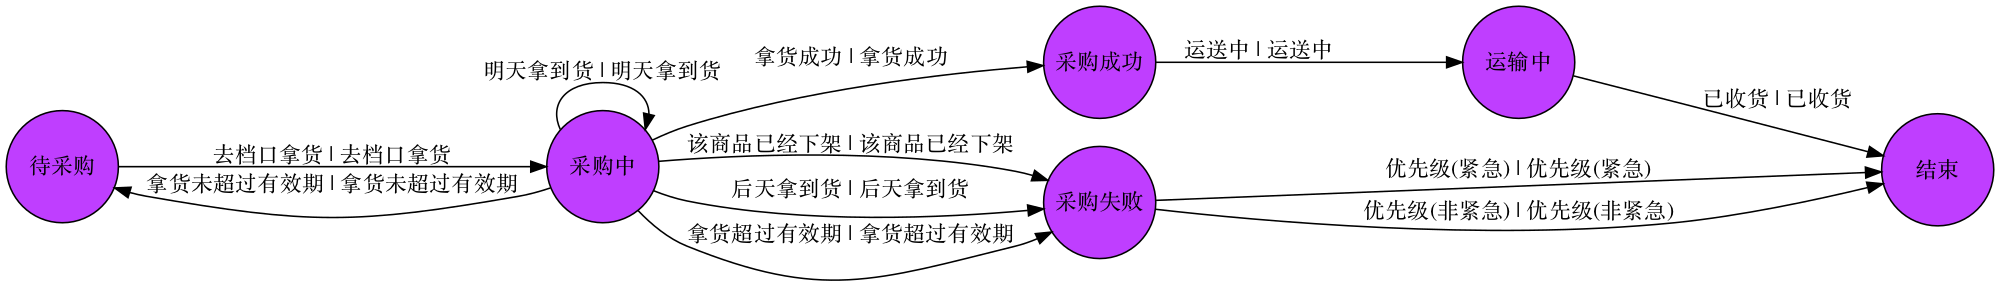
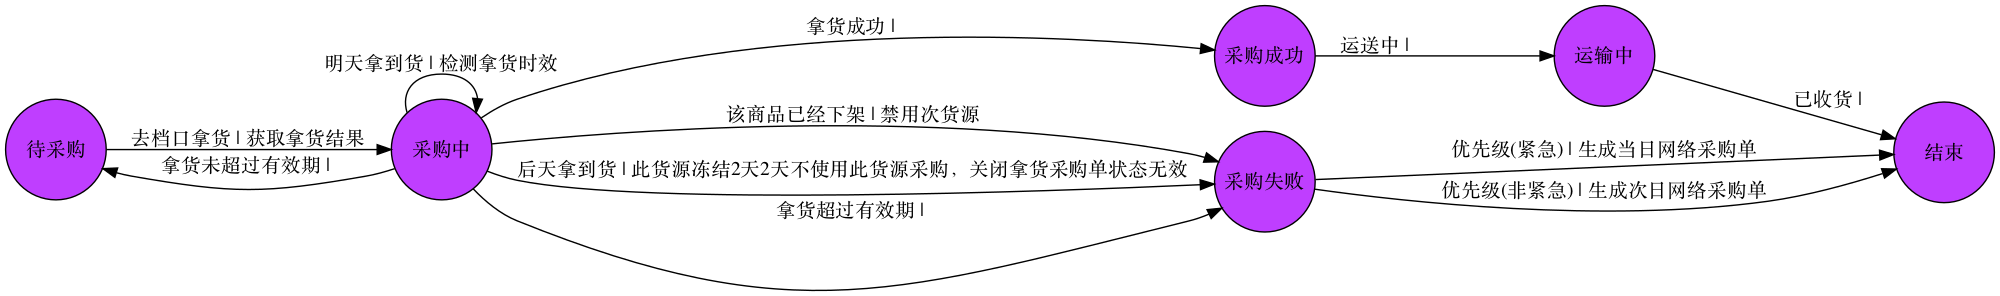
状态机优化

diff --git a/purchase_at_the_stall_test.go b/purchase_at_the_stall_test.go
@@ -32,7 +32,43 @@ func (p *StallPurchaseOrderEventProcessor) OnExit(fromState State, args []interf
 	log.Printf("采购单 %d 从状态 %v 改变", t.ID, fromState)
 }
 
-func (p *StallPurchaseOrderEventProcessor) Action(action Action, fromState State, toState State, args []interface{}) error {
+func (p *StallPurchaseOrderEventProcessor) PreAction(action Action, fromState State, toState State, args []interface{}) error {
+	ts := args[0].(*StallPurchaseOrder)
+	ts.EventCount++
+
+	switch action.Name {
+
+	case "获取拿货结果":
+		{
+			ts.GetGoodsResults = int64(rand.Intn(4))
+		}
+	case "禁用此货源":
+		{
+			fmt.Println("禁用此货源")
+		}
+
+	case "生成络采购单", "生成次日网络采购单":
+		//{
+		//	fmt.Println("生成网络采购单")
+		//}
+
+	case "此货源冻结2天2天不使用此货源采购，关闭拿货采购单状态无效":
+
+		{
+			fmt.Println("此货源冻结2天2天不使用此货源采购，关闭拿货采购单状态无效")
+		}
+	case "检测拿货时效":
+		{
+			ts.effective = rand.Intn(2)
+		}
+	default: //其它action
+
+	}
+
+	return nil
+}
+
+func (p *StallPurchaseOrderEventProcessor) NextAction(action Action, fromState State, toState State, args []interface{}) error {
 	ts := args[0].(*StallPurchaseOrder)
 	ts.EventCount++
 
@@ -134,7 +170,6 @@ func TestStallOrder(t *testing.T) {
 	if err != nil {
 		fmt.Printf("trigger err: %v", err)
 	}
-
 	switch ts.GetGoodsResults {
 	case 0:
 
@@ -191,17 +226,17 @@ func initStallOrderFSM() *StateMachine {
 	delegate := &DefaultDelegate{P: &StallPurchaseOrderEventProcessor{}}
 
 	transitions := []Transition{
-		{From: PendingPuchase, Event: Go2Stall, To: Purchasing, Action: GetTheResults},
-		{From: Purchasing, Event: GotTheGoods, To: PurchaseSuccessful, Action: NoAction},
-		{From: PurchaseSuccessful, Event: SendToWarehouse, To: BeingTransported, Action: NoAction},
-		{From: BeingTransported, Event: Received, To: PurchaseEnd, Action: NoAction},
-		{From: Purchasing, Event: HasBeenRemoved, To: Purchasefailed, Action: DisableSecondarySources},
-		{From: Purchasefailed, Event: Urgent, To: PurchaseEnd, Action: GenerateTodayOnlineOrder},
-		{From: Purchasefailed, Event: NotUrgent, To: PurchaseEnd, Action: GenerateTomorrowOnlineOrder},
-		{From: Purchasing, Event: TwoDaysLater, To: Purchasefailed, Action: SourceFreeze2Days},
-		{From: Purchasing, Event: OneDaysLater, To: Purchasing, Action: TestingTime},
-		{From: Purchasing, Event: Overdue, To: Purchasefailed, Action: NoAction},
-		{From: Purchasing, Event: NotExpired, To: PendingPuchase, Action: NoAction},
+		{From: PendingPuchase, Event: Go2Stall, To: Purchasing, PreAction: GetTheResults},
+		{From: Purchasing, Event: GotTheGoods, To: PurchaseSuccessful, PreAction: NoAction},
+		{From: PurchaseSuccessful, Event: SendToWarehouse, To: BeingTransported, PreAction: NoAction},
+		{From: BeingTransported, Event: Received, To: PurchaseEnd, PreAction: NoAction},
+		{From: Purchasing, Event: HasBeenRemoved, To: Purchasefailed, PreAction: DisableSecondarySources},
+		{From: Purchasefailed, Event: Urgent, To: PurchaseEnd, PreAction: GenerateTodayOnlineOrder},
+		{From: Purchasefailed, Event: NotUrgent, To: PurchaseEnd, PreAction: GenerateTomorrowOnlineOrder},
+		{From: Purchasing, Event: TwoDaysLater, To: Purchasefailed, PreAction: SourceFreeze2Days},
+		{From: Purchasing, Event: OneDaysLater, To: Purchasing, PreAction: TestingTime},
+		{From: Purchasing, Event: Overdue, To: Purchasefailed, PreAction: NoAction},
+		{From: Purchasing, Event: NotExpired, To: PendingPuchase, PreAction: NoAction},
 	}
 
 	return NewStateMachine(delegate, transitions...)

diff --git a/fsm.go b/fsm.go
@@ -1,6 +1,6 @@
 // gofsm is a simple, featured FSM implementation that has some different features with other FSM implementation.
 // One feature of gofsm is it doesn't persist/keep states of objects. When it processes transitions, you must pass current states to Id, so you can look gofsm as a "stateless" state machine. This benefit is one gofsm instance can be used to handle transitions of a lot of object instances, instead of creating a lot of FSM instances. Object instances maintain their states themselves.
-// Another feature is it provides a common interface for Moore and Mealy FSM. You can implement corresponding methods (OnExit, Action, OnEnter) for those two FSM.
+// Another feature is it provides a common interface for Moore and Mealy FSM. You can implement corresponding methods (OnExit, PreAction, OnEnter) for those two FSM.
 // The third interesting feature is you can export configured transitions into a state diagram. A picture is worth a thousand words.
 
 // Style of gofsm refers to implementation of https://github.com/elimisteve/fsm.
@@ -19,7 +19,8 @@ type Transition struct {
 	From State
 	Event
 	To     State
-	Action
+	PreAction Action
+	NextAction Action
 }
 
 type State struct {
@@ -41,7 +42,7 @@ type Action struct {
 // Delegate is used to process actions. Because gofsm uses literal values as event, state and action, you need to handle them with corresponding functions. DefaultDelegate is the default delegate implementation that splits the processing into three actions: OnExit Action, Action and OnEnter Action. you can implement different delegates.
 type Delegate interface {
 	// HandleEvent handles transitions
-	HandleEvent(action Action, fromState State, toState State, args []interface{}) error
+	HandleEvent(preAction Action, NextAction Action,fromState State, toState State, args []interface{}) error
 }
 
 // StateMachine is a FSM that can handle transitions of a lot of objects. delegate and transitions are configured before use them.
@@ -87,8 +88,8 @@ func (m *StateMachine) Trigger(currentState State, event Event, args ...interfac
 	}
 
 	var err error
-	//if trans.Action != "" {
-	err = m.delegate.HandleEvent(trans.Action, currentState, trans.To, args)
+	//if trans.PreAction != "" {
+	err = m.delegate.HandleEvent(trans.PreAction,trans.NextAction, currentState, trans.To, args)
 	//}
 	return err
 }
@@ -122,7 +123,7 @@ func (m *StateMachine) ExportWithDetails(outfile string, format string, layout s
 	`
 
 	for _, t := range m.transitions {
-		link := fmt.Sprintf(`%s -> %s [label="%s | %s"]`, t.From.Name, t.To.Name, t.Event.Name, t.Event.Name)
+		link := fmt.Sprintf(`%s -> %s [label="%s | %s"]`, t.From.Name, t.To.Name, t.Event.Name, t.PreAction.Name)
 		dot = dot + "\r\n" + link
 	}
 

diff --git a/callback.go b/callback.go
@@ -4,11 +4,16 @@ package fsm
 type EventProcessor interface {
 	// OnExit Action handles exiting a state
 	OnExit(fromState State, args []interface{})
-	// Action is used to handle transitions
-	Action(action Action, fromState State, toState State, args []interface{}) error
+	// PreAction is used to handle transitions
+	PreAction(action Action, fromState State, toState State, args []interface{}) error
+
+	// NextAction is used to handle transitions
+	NextAction(action Action, fromState State, toState State, args []interface{}) error
+
 	// OnActionFailure failed to execute the Action
 	OnActionFailure(action Action, fromState State, toState State, args []interface{}, err error)
-	// OnExit Action handles entering a state
+
+	// OnEnter Action handles entering a state
 	OnEnter(toState State, args []interface{})
 }
 
@@ -19,21 +24,31 @@ type DefaultDelegate struct {
 }
 
 // HandleEvent implements Delegate interface and split HandleEvent into three actions.
-func (dd *DefaultDelegate) HandleEvent(action Action, fromState State, toState State, args []interface{}) error {
+func (dd *DefaultDelegate) HandleEvent(preAction Action, nextAction Action, fromState State, toState State, args []interface{}) error {
 	if fromState != toState {
 		dd.P.OnExit(fromState, args)
 	}
 
+	var err error
+	if preAction.Id > 0 {
+		err = dd.P.PreAction(preAction, fromState, toState, args)
 
-
-	err := dd.P.Action(action, fromState, toState, args)
-	if err != nil {
-		dd.P.OnActionFailure(action, fromState, toState, args, err)
-		return err
+		if err != nil {
+			dd.P.OnActionFailure(preAction, fromState, toState, args, err)
+			return err
+		}
 	}
 
 	if fromState != toState {
 		dd.P.OnEnter(toState, args)
+	}
+
+	if nextAction.Id > 0 {
+		err = dd.P.NextAction(nextAction, fromState, toState, args)
+		if err != nil {
+			dd.P.OnActionFailure(nextAction, fromState, toState, args, err)
+			return err
+		}
 	}
 
 	return nil
